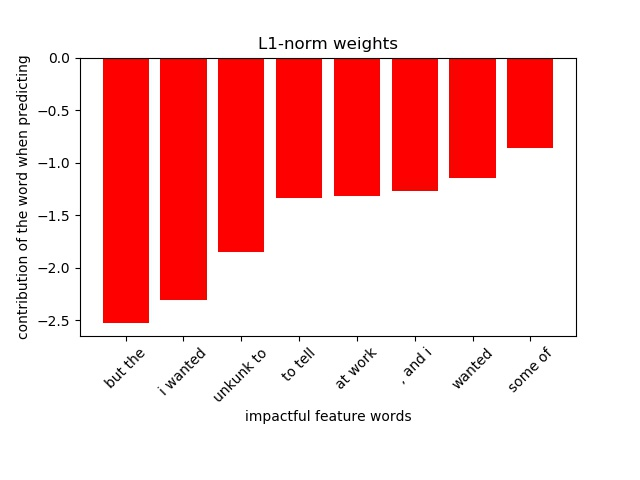
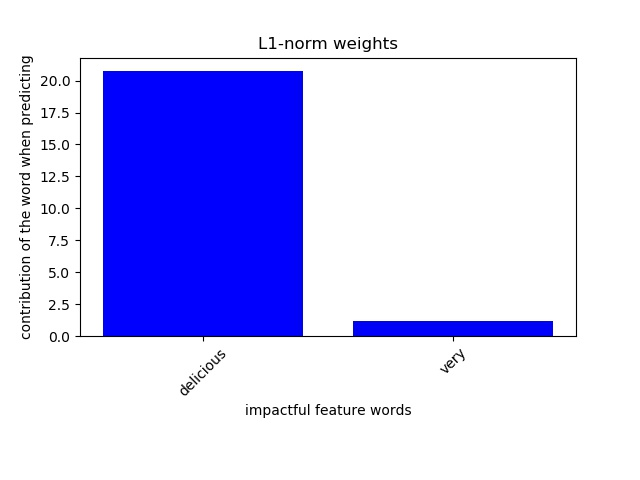
Added more style

diff --git a/decipher/static/decipher/lime.html b/decipher/static/decipher/lime.html
@@ -37088,25 +37088,25 @@
 /***/ })
 /******/ ]);
 //# sourceMappingURL=bundle.js.map </script></head><body>
-        <div class="lime top_div" id="top_div2JNI4DK7WZLKULK"></div>
+        <div class="lime top_div" id="top_divYYIEFCYBHJXGFL0"></div>
         
         <script>
-        var top_div = d3.select('#top_div2JNI4DK7WZLKULK').classed('lime top_div', true);
+        var top_div = d3.select('#top_divYYIEFCYBHJXGFL0').classed('lime top_div', true);
         
             var pp_div = top_div.append('div')
                                 .classed('lime predict_proba', true);
             var pp_svg = pp_div.append('svg').style('width', '100%');
-            var pp = new lime.PredictProba(pp_svg, ["NEGATIVE", "POSITIVE"], [0.9980716293798877, 0.0019283706201123113]);
+            var pp = new lime.PredictProba(pp_svg, ["NEGATIVE", "POSITIVE"], [0.00013231041759287354, 0.9998676895824071]);
             
         
         var exp_div;
             var exp = new lime.Explanation(["NEGATIVE", "POSITIVE"]);
         
                 exp_div = top_div.append('div').classed('lime explanation', true);
-                exp.show([["but", -0.05548924834219467], ["the", -0.05386236243573941], ["good", 0.05318824056067254], ["wanted", -0.04532692991398124], ["to", -0.04078230192920573], ["wasn", -0.03768202076698658], ["understand", -0.037610551630302774], ["after", -0.0352087825928848], ["employee", -0.027450026301846547], ["tell", -0.027202773593419462]], 1, exp_div);
+                exp.show([["delicious", 0.12713372142257656], ["very", 0.12410651869537867]], 1, exp_div);
                 
         var raw_div = top_div.append('div');
-            exp.show_raw_text([["but", 112, -0.05548924834219467], ["the", 57, -0.05386236243573941], ["the", 116, -0.05386236243573941], ["good", 17, 0.05318824056067254], ["wanted", 68, -0.04532692991398124], ["to", 143, -0.04078230192920573], ["wasn", 75, -0.03768202076698658], ["understand", 95, -0.037610551630302774], ["after", 22, -0.0352087825928848], ["employee", 120, -0.027450026301846547], ["tell", 146, -0.027202773593419462]], 1, "came in for some good after a long day at work . some of the food i wanted wasn't ready, and i understand that, but the employee bianca unkunk to tell", raw_div, true);
+            exp.show_raw_text([["delicious", 5, 0.12713372142257656], ["very", 0, 0.12410651869537867]], 1, "very delicious", raw_div, true);
             
         </script>
         </body></html>

diff --git a/decipher/templates/home.html b/decipher/templates/home.html
@@ -16,8 +16,9 @@
     </head>
     <body>
         <img class= "topbanner" src="{% static 'decipher/computer.png' %}">
-        <div class="main">
+        <div class="trainButton">
         <button onclick="location.href='{% url 'train_model' %}'">Train NLP Model</button>
+        </div>
         <div class="progress">
         {% if progress is not None %}
         {{progress}}
@@ -25,25 +26,42 @@
         </div>
         <hr>
 
-        <form method="post" enctype="multipart/form-data" action="/output">
-        {% csrf_token %}
-            Input your sentence for sentiment classification:
-            <input type="text" name="inputsentence">
-        </form>
+        <div >
+        <span class="description">
+        Input your sentence for sentiment classification:
+        </span>
 
-        <form method="post" enctype="multipart/form-data" action="/output2">
-            {% csrf_token %}
-            Input your sentence for gender classification:
-            <input type="text" name="inputsentence2">
+        <span class="description">
+        Input your sentence for gender classification:
+        </span>
+        </div>
+        <br>
+
+        <div>
+        <form method="post" enctype="multipart/form-data" action="/output" class="inputForm" id="sentiment">
+        {% csrf_token %}
+            <textarea rows="5" cols="50" type="text" name="inputsentence"></textarea>
         </form>
+        <form method="post" enctype="multipart/form-data" action="/output2" class="inputForm" id="gender">
+            {% csrf_token %}
+            <textarea rows="5" cols="50" type="text" name="inputsentence2"></textarea>
+        </form>
+        </div>
+
+        <div>
+            <button type="submit" form="sentiment" value="Submit">Sentiment</button>
+            <button type="submit" form="gender" value="Submit">Gender</button>
+        </div>
 
         {% if data is not None or prediction is not None %}
         <br>
+        <div class="result">
         {{data}}
         <br>
         {{prediction}}
         <br>
         {{reason}}
+        </div>
         <div id="lime"></div>
         {% endif %}
 
@@ -51,8 +69,8 @@
         <br>
         {{confusion}}
         {% endif %}
+        <br>
         <img src="{% static 'decipher/sigmoid.png' %}" class="sigmoid">
-        </div>
         </body>
 
 </html>

diff --git a/decipher/static/decipher/style.css b/decipher/static/decipher/style.css
@@ -1,14 +1,8 @@
 body{
-    color: red;
+    color: #3C6478;
     margin: 0;
     background-color: #DDDDDD;
-}
-
-.sigmoid{
-}
-
-.topbanner{
-    width:100%;
+    font-family: sans-serif;
 }
 
 button {
@@ -20,11 +14,54 @@ button {
   text-decoration: none;
   display: inline-block;
   font-size: 16px;
+  left: 10px;
+  margin-left: 140px;
+  margin-right: 140px;
+}
+.sigmoid{
 }
 
-.main{
-    /* background-image: url("art-artist-black-and-white-265047.jpg");
-    background-position: center;
-    background-repeat: no-repeat;
-    background-size: cover; */
+.topbanner{
+    width:100%;
+}
+
+div{
+    text-align: center;
+}
+
+.inputForm{
+    position: relative;
+    display: inline-block;
+    margin-left: 20px;
+    margin-right: 20px;
+}
+
+.description{
+    position: relative;
+    display: inline-block;
+    margin-left: 40px;
+    margin-right: 60px;
+    color: #3C6478;
+    font-size: 16px;
+    font-family: sans-serif;
+}
+
+.trainButton {
+    text-align: center;
+}
+
+.progress{
+    text-align: center;
+    color: #3C6478;
+    font-size: 18px;
+    font-family: sans-serif;
+    padding-top: 10px;
+}
+
+.result{
+    margin-bottom: 30px
+}
+
+form{
+    display: inline-block;
 }
